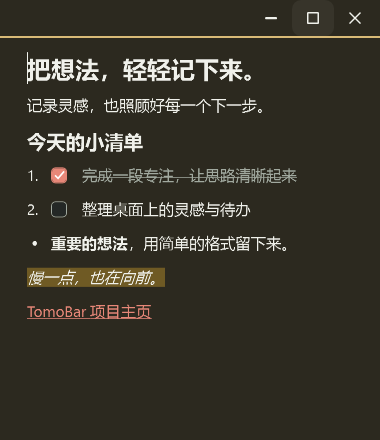
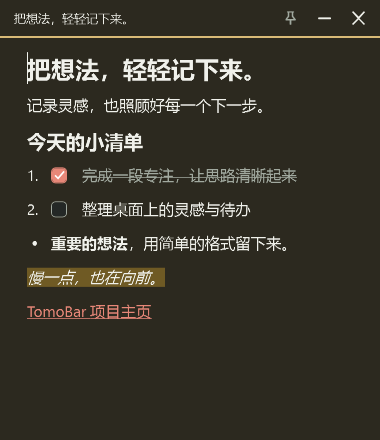
feat: editable note titles, pin controls, folding and edge snapping (v1.5.4)

diff --git a/src/TomoBar/Theme.xaml b/src/TomoBar/Theme.xaml
@@ -1,4 +1,5 @@
 <ResourceDictionary xmlns="http://schemas.microsoft.com/winfx/2006/xaml/presentation" xmlns:x="http://schemas.microsoft.com/winfx/2006/xaml">
+ <SolidColorBrush x:Key="TransparentNoteButton" Color="Transparent"/>
  <SolidColorBrush x:Key="Bg" Color="#F6F5F2"/>
  <SolidColorBrush x:Key="Card" Color="#FFFFFF"/>
  <SolidColorBrush x:Key="Ink" Color="#272B29"/>

diff --git a/src/TomoBar/NoteSmoke.cs b/src/TomoBar/NoteSmoke.cs
@@ -15,7 +15,7 @@ namespace LittleTomato {
  public static class NoteSmoke {
   static void Capture(FrameworkElement w,string path){w.UpdateLayout();var bmp=new RenderTargetBitmap((int)w.ActualWidth,(int)w.ActualHeight,96,96,PixelFormats.Pbgra32);bmp.Render(w);var encoder=new PngBitmapEncoder();encoder.Frames.Add(BitmapFrame.Create(bmp));using(var f=File.Create(path))encoder.Save(f);}
   static IEnumerable<DependencyObject> Children(DependencyObject root){for(int i=0;i<VisualTreeHelper.GetChildrenCount(root);i++){var c=VisualTreeHelper.GetChild(root,i);yield return c;foreach(var v in Children(c))yield return v;}}
-  static void Enter(NoteWindow w){w.Editor.RaiseEvent(new KeyEventArgs(Keyboard.PrimaryDevice,PresentationSource.FromVisual(w),0,Key.Enter){RoutedEvent=Keyboard.PreviewKeyDownEvent});}
+  static void Enter(NoteWindow w){w.UpdateLayout();w.Editor.RaiseEvent(new KeyEventArgs(Keyboard.PrimaryDevice,PresentationSource.FromVisual(w),0,Key.Enter){RoutedEvent=Keyboard.PreviewKeyDownEvent});}
   static MenuItem Item(ItemsControl menu,string name){foreach(var item in menu.Items.OfType<MenuItem>()){if(String.Equals(item.Header,name))return item;var nested=Item(item,name);if(nested!=null)return nested;}return null;}
   static void Click(NoteWindow w,string name){Item(w.EditMenu,name).RaiseEvent(new RoutedEventArgs(MenuItem.ClickEvent));}
   static List<Paragraph> Blocks(NoteWindow w){return w.Editor.Document.Blocks.SelectMany(b=>b is Paragraph?new[]{(Paragraph)b}:((System.Windows.Documents.List)b).ListItems.SelectMany(item=>item.Blocks.OfType<Paragraph>())).ToList();}
@@ -51,6 +51,33 @@ namespace LittleTomato {
    check(!w.EditMenu.Items.OfType<MenuItem>().Any(i=>String.Equals(i.Header,"移到回收站"))&&Item(w.EditMenu,"便签选项")!=null&&Item(w.EditMenu,"编辑历史")!=null,"root menu groups note management and edit history away from formatting");w.EditMenu.IsOpen=false;
    return w;
   }
+  [System.Runtime.InteropServices.DllImport("user32.dll")] static extern IntPtr SendMessage(IntPtr window,int message,IntPtr wp,IntPtr lp);
+  static Button NamedButton(DependencyObject root,string name){return Children(root).OfType<Button>().First(b=>System.Windows.Automation.AutomationProperties.GetName(b)==name);}
+  static TextBox EditTitle(Program app,Note note){NamedButton(app.Main,"编辑便签标题 "+note.Id).RaiseEvent(new RoutedEventArgs(Button.ClickEvent));return Children(app.Main).OfType<TextBox>().First(b=>System.Windows.Automation.AutomationProperties.GetName(b)=="便签标题 "+note.Id);}
+  static void TitleKey(NoteWindow w,TextBox editor,Key key){editor.RaiseEvent(new KeyEventArgs(Keyboard.PrimaryDevice,PresentationSource.FromVisual(w),0,key){RoutedEvent=Keyboard.PreviewKeyDownEvent});}
+  static NoteWindow CheckNoteWindow(Program app,NoteWindow w,Action<bool,string> check,string folder){
+   var note=w.Note;app.ShowMain();app.Main.ShowPage("notes");app.Main.UpdateLayout();var editor=EditTitle(app,note);editor.Text="读书与灵感";
+   check(editor.IsVisible&&w.IsVisible,"single click on list title opens inline editor without replacing note window");
+   w.Editor.AppendText("编辑期间的正文");w.Flush();check(Children(app.Main).Contains(editor)&&editor.Text=="读书与灵感","background note save does not discard in-progress title input");
+   TitleKey(w,editor,Key.Enter);check(note.Title=="读书与灵感"&&w.Title.Contains(note.Title)&&Children(w).OfType<TextBlock>().Any(t=>t.Text==note.Title)&&app.Store.Load().Notes.First(n=>n.Id==note.Id).Title==note.Title,"Enter saves title and synchronizes live note header");
+   editor=EditTitle(app,note);editor.Text="取消的标题";TitleKey(w,editor,Key.Escape);check(note.Title=="读书与灵感","Escape cancels title editing");
+   editor=EditTitle(app,note);editor.Text="点击别处保存";editor.RaiseEvent(new KeyboardFocusChangedEventArgs(Keyboard.PrimaryDevice,0,editor,w.Editor){RoutedEvent=Keyboard.LostKeyboardFocusEvent});check(note.Title=="点击别处保存","leaving title field commits input");
+   editor=EditTitle(app,note);editor.Text="";TitleKey(w,editor,Key.Enter);check(note.Title==""&&w.Title=="便签 · "+note.DisplayTitle,"blank custom title restores body-derived title in header");
+   app.Notes.Rename(note,"读书与灵感");check(!Children(w).OfType<Button>().Any(b=>System.Windows.Automation.AutomationProperties.GetName(b)=="最大化"),"note header has no maximize button");
+   NamedButton(w,"置顶便签").RaiseEvent(new RoutedEventArgs(Button.ClickEvent));check(note.Pinned&&w.Topmost,"header pin button enables always-on-top");Click(w,"置顶便签");check(!note.Pinned&&!w.Topmost&&NamedButton(w,"置顶便签")!=null,"context menu unpin synchronizes header button");
+   double height=w.ActualHeight,width=w.ActualWidth;string body=note.Body;var handle=new System.Windows.Interop.WindowInteropHelper(w).Handle;
+   SendMessage(handle,0xA3,new IntPtr(2),IntPtr.Zero);w.UpdateLayout();check(w.IsFolded&&w.ActualHeight<=40&&w.Editor.Visibility==Visibility.Collapsed&&Math.Abs(w.ActualWidth-width)<2,"native titlebar double-click folds to title-only strip without changing width");
+   Capture(w,Path.Combine(folder,"note-folded.png"));check(Math.Abs(note.Height-height)<2&&note.Body==body,"folding retains expanded dimensions and all note content");
+   NamedButton(w,"置顶便签").RaiseEvent(new RoutedEventArgs(Button.ClickEvent));check(w.Topmost&&note.Pinned,"pin button remains usable while folded");
+   SendMessage(handle,0xA3,new IntPtr(2),IntPtr.Zero);w.UpdateLayout();check(!w.IsFolded&&w.Editor.Visibility==Visibility.Visible&&Math.Abs(w.ActualHeight-height)<2&&note.Body==body,"second titlebar double-click restores original editor size and content");
+   SendMessage(handle,0x112,new IntPtr(0xF030),IntPtr.Zero);check(w.WindowState!=WindowState.Maximized,"system maximize command is suppressed for notes");
+   Native.RECT rect;Native.GetWindowRect(handle,out rect);var work=NoteDocking.WorkArea(rect);int rectWidth=rect.Width;rect.Left=work.Right-rectWidth-5;rect.Right=work.Right-5;rect.Top=work.Top+80;rect.Bottom=rect.Top+200;
+   var memory=System.Runtime.InteropServices.Marshal.AllocHGlobal(System.Runtime.InteropServices.Marshal.SizeOf(typeof(Native.RECT)));try{System.Runtime.InteropServices.Marshal.StructureToPtr(rect,memory,false);SendMessage(handle,0x216,IntPtr.Zero,memory);rect=(Native.RECT)System.Runtime.InteropServices.Marshal.PtrToStructure(memory,typeof(Native.RECT));check(rect.Right==work.Right&&rect.Width==rectWidth,"native moving message snaps to current monitor work-area edge without resizing");}finally{System.Runtime.InteropServices.Marshal.FreeHGlobal(memory);}
+   w.Editor.AppendText("关窗前的新内容");SendMessage(handle,0xA3,new IntPtr(2),IntPtr.Zero);NamedButton(w,"关闭便签").RaiseEvent(new RoutedEventArgs(Button.ClickEvent));check(!w.IsVisible&&app.Store.Load().Notes.First(n=>n.Id==note.Id).PlainText.Contains("关窗前的新内容")&&!note.Deleted,"close button on folded note saves content and keeps note in list");
+   w=app.Notes.Open(note);check(!w.IsFolded&&Math.Abs(w.Height-height)<2&&w.Topmost&&w.Title.Contains("读书与灵感"),"reopening closed note restores expanded size, saved title and pin state");
+   NamedButton(w,"最小化便签").RaiseEvent(new RoutedEventArgs(Button.ClickEvent));check(w.WindowState==WindowState.Minimized,"header minimize button minimizes note");app.Notes.Open(note);check(w.WindowState==WindowState.Normal&&w.IsVisible,"opening from list restores minimized note");
+   w.TogglePin();app.Notes.Rename(note,"");return w;
+  }
   public static void Start(Program app,string folder){
    var report=new List<string>();int stage=0;NoteWindow w=null;Note note=null;string saved=null;var timer=new DispatcherTimer{Interval=TimeSpan.FromMilliseconds(1100)};Action<bool,string> check=(ok,msg)=>{report.Add((ok?"PASS ":"FAIL ")+msg);if(!ok)Environment.ExitCode=1;};
    timer.Tick+=(s,e)=>{try{switch(stage++){
@@ -66,7 +93,7 @@ namespace LittleTomato {
      w.SetKind("number");w.Editor.AppendText("编号内容");w.Indent(1);check(w.Capture().Blocks.Last().Indent==1&&w.Capture().Blocks.Last().Kind=="number","numbered list supports indentation");
      Click(w,"大标题");check(w.Capture().Blocks.Last().Kind=="h1","context menu applies heading style");Click(w,"正文");check(w.Capture().Blocks.Last().Kind=="body","context menu returns heading to body text");
      check(!Children(w).OfType<ComboBox>().Any()&&!Children(w).OfType<Button>().Any(b=>System.Windows.Automation.AutomationProperties.GetName(b)=="加粗 · Ctrl+B"),"note surface has no formatting toolbar or settings controls");
-     w=CheckCombined(app,w,check,folder);
+     w=CheckCombined(app,w,check,folder);w=CheckNoteWindow(app,w,check,folder);
      var preview=new NoteDocument();preview.Blocks.Add(new NoteBlock{Kind="h1",Runs=new List<NoteRun>{new NoteRun{Text="把想法，轻轻记下来。"}}});preview.Blocks.Add(new NoteBlock{Runs=new List<NoteRun>{new NoteRun{Text="记录灵感，也照顾好每一个下一步。"}}});preview.Blocks.Add(new NoteBlock{Kind="h2",Runs=new List<NoteRun>{new NoteRun{Text="今天的小清单"}}});preview.Blocks.Add(new NoteBlock{Kind="number",Checklist=true,Done=true,Runs=new List<NoteRun>{new NoteRun{Text="完成一段专注，让思路清晰起来"}}});preview.Blocks.Add(new NoteBlock{Kind="number",Checklist=true,Runs=new List<NoteRun>{new NoteRun{Text="整理桌面上的灵感与待办"}}});preview.Blocks.Add(new NoteBlock{Kind="bullet",Runs=new List<NoteRun>{new NoteRun{Text="重要的想法",Bold=true},new NoteRun{Text="，用简单的格式留下来。"}}});preview.Blocks.Add(new NoteBlock{Runs=new List<NoteRun>{new NoteRun{Text="慢一点，也在向前。",Highlight=true,Italic=true}}});preview.Blocks.Add(new NoteBlock{Runs=new List<NoteRun>{new NoteRun{Text="TomoBar 项目主页",Link="https://github.com/Claradoll/TomoBar"}}});w.Render(preview);w.Record();break;
     case 1:
      check(app.Store.Load().Notes.First(n=>n.Id==note.Id).Body==note.Body,"debounced autosave stores document without manual save");check(app.Data.Active!=null&&app.Data.Active.Running,"editing notes does not pause focus timer");check(note.DisplayTitle=="把想法，轻轻记下来。","blank title uses first content line");Capture(w,Path.Combine(folder,"note-light.png"));app.Main.ShowPage("notes");Capture(app.Main,Path.Combine(folder,"notes-list.png"));

diff --git a/src/TomoBar/UI.cs b/src/TomoBar/UI.cs
@@ -21,7 +21,7 @@ namespace LittleTomato {
   public static Button Button(string text,Action action,bool primary) {var b=new Button {Content=text};if(primary){b.SetResourceReference(Control.BackgroundProperty,"Accent");b.SetResourceReference(Control.ForegroundProperty,"OnAccent");}b.Click+=(s,e)=>action();AutomationProperties.SetName(b,text);return b;}
   public static void IconLabel(Button button,string label,string icon) {
    string state=icon+label;if(String.Equals(button.Tag,state))return;button.Tag=state;
-   string stroke=icon=="notes"?"M3,2 L13,2 L13,11 L10,14 L3,14 Z M10,14 L10,11 L13,11 M5,5 L11,5 M5,8 L10,8":icon=="tasks"?"M2,4 L4,6 L7,2 M9,4 L15,4 M2,11 L4,13 L7,9 M9,11 L15,11":icon=="stats"?"M2,14 L2,9 M7,14 L7,5 M12,14 L12,2":icon=="settings"?"M2,4 L15,4 M2,12 L15,12 M6,2 L6,6 M11,10 L11,14":icon=="minimize"?"M3,8 L13,8":icon=="maximize"?"M3,3 L13,3 L13,13 L3,13 Z":icon=="restore"?"M5,3 L13,3 L13,11 M3,5 L11,5 L11,13 L3,13 Z":icon=="plus"?"M8,3 L8,13 M3,8 L13,8":icon=="more"?"M3,8 L3.1,8 M8,8 L8.1,8 M13,8 L13.1,8":icon=="undo"?"M6,3 L2,7 L6,11 M2,7 L10,7 Q14,7 14,12":null;
+   string stroke=icon=="pin"?"M5,2 L11,2 M6,2 L6,7 L3,10 L13,10 L10,7 L10,2 M8,10 L8,15":icon=="notes"?"M3,2 L13,2 L13,11 L10,14 L3,14 Z M10,14 L10,11 L13,11 M5,5 L11,5 M5,8 L10,8":icon=="tasks"?"M2,4 L4,6 L7,2 M9,4 L15,4 M2,11 L4,13 L7,9 M9,11 L15,11":icon=="stats"?"M2,14 L2,9 M7,14 L7,5 M12,14 L12,2":icon=="settings"?"M2,4 L15,4 M2,12 L15,12 M6,2 L6,6 M11,10 L11,14":icon=="minimize"?"M3,8 L13,8":icon=="maximize"?"M3,3 L13,3 L13,13 L3,13 Z":icon=="restore"?"M5,3 L13,3 L13,11 M3,5 L11,5 L11,13 L3,13 Z":icon=="plus"?"M8,3 L8,13 M3,8 L13,8":icon=="more"?"M3,8 L3.1,8 M8,8 L8.1,8 M13,8 L13.1,8":icon=="undo"?"M6,3 L2,7 L6,11 M2,7 L10,7 Q14,7 14,12":null;
    string data=stroke??(icon=="pause"?"M4,2 L7,2 L7,14 L4,14 Z M10,2 L13,2 L13,14 L10,14 Z":icon=="play"?"M4,2 L14,8 L4,14 Z":icon=="stop"?"M3,3 L13,3 L13,13 L3,13 Z":icon=="open"?"M5,2 L14,2 L14,11 L12,11 L12,5 L3,14 L2,13 L11,4 L5,4 Z":icon=="close"?"M3,2 L8,7 L13,2 L14,3 L9,8 L14,13 L13,14 L8,9 L3,14 L2,13 L7,8 L2,3 Z":"M3,5 L8,10 L13,5 L14,6 L8,12 L2,6 Z");
    var glyph=new System.Windows.Shapes.Path {Data=Geometry.Parse(data),Width=16,Height=16,Stretch=Stretch.Uniform,VerticalAlignment=VerticalAlignment.Center};if(stroke==null)glyph.SetBinding(Shape.FillProperty,new System.Windows.Data.Binding("Foreground"){Source=button});else {glyph.StrokeThickness=1.5;glyph.StrokeStartLineCap=PenLineCap.Round;glyph.StrokeEndLineCap=PenLineCap.Round;glyph.StrokeLineJoin=PenLineJoin.Round;glyph.SetBinding(Shape.StrokeProperty,new System.Windows.Data.Binding("Foreground"){Source=button});}
    var row=new StackPanel {Orientation=Orientation.Horizontal,HorizontalAlignment=button.HorizontalContentAlignment};row.Children.Add(glyph);if(label.Length>0)row.Children.Add(new TextBlock {Text=label,Margin=new Thickness(9,0,0,0),VerticalAlignment=VerticalAlignment.Center});button.Content=row;AutomationProperties.SetName(button,label.Length>0?label:"关闭面板");
@@ -66,7 +66,7 @@ namespace LittleTomato {
    content=new Grid {Margin=new Thickness(14,18,28,24)};UI.At(body,content,0,1);Content=root;
    Closing+=(s,e)=>{if(!app.Quitting){e.Cancel=true;Hide();app.ShowTrayHint();}};
    StateChanged+=(s,e)=>{if(WindowState==WindowState.Minimized)Hide();};
-   PreviewKeyDown+=(s,e)=>{if(e.Key==Key.N && Keyboard.Modifiers==ModifierKeys.Control){if(Page=="notes")app.Notes.New();else EditTask(null);e.Handled=true;}if(e.Key==Key.Escape){if(taskOverlay!=null)CloseEditor();else Hide();e.Handled=true;}};
+   PreviewKeyDown+=(s,e)=>{if(e.Key==Key.Escape&&Page=="notes"&&notesPage!=null&&notesPage.IsEditingTitle)return;if(e.Key==Key.N && Keyboard.Modifiers==ModifierKeys.Control){if(Page=="notes")app.Notes.New();else EditTask(null);e.Handled=true;}if(e.Key==Key.Escape){if(taskOverlay!=null)CloseEditor();else Hide();e.Handled=true;}};
    ShowPage("tasks");
   }
   void AddNav(StackPanel parent,string key,string text) {var b=UI.Button(text,()=>ShowPage(key),false);b.HorizontalContentAlignment=HorizontalAlignment.Left;b.Margin=new Thickness(0,0,0,8);b.Padding=new Thickness(13,13,8,13);UI.IconLabel(b,text,key);parent.Children.Add(b);nav[key]=b;}
@@ -159,7 +159,7 @@ namespace LittleTomato {
    var offset=UI.Input("计时条左侧距离",p.Offset.ToString());offset.Width=100;offset.HorizontalAlignment=HorizontalAlignment.Left;var position=UI.Row(UI.Text("距任务栏左侧",12,"Muted"),offset,UI.Text("  像素 · -1 为自动",11,"Muted"));foreach(FrameworkElement item in position.Children)item.VerticalAlignment=VerticalAlignment.Center;offset.Margin=new Thickness(16,0,0,0);position.Margin=new Thickness(0,12,0,8);visual.Children.Add(position);var mode=UI.Text("当前显示："+(app.Bar==null?"自动适配":app.Bar.Mode)+"  ·  全屏时自动隐藏",11,"Muted");mode.Margin=new Thickness(0,8,0,0);visual.Children.Add(mode);all.Children.Add(SettingsCard(visual));
    var status=UI.Text("",12,"Accent");status.TextWrapping=TextWrapping.Wrap;status.Margin=new Thickness(0,0,0,10);all.Children.Add(status);
    var save=UI.Button("保存设置",()=>{int f,s,l,r,o;if(!Int32.TryParse(focus.Text,out f)||f<1||f>180||!Int32.TryParse(shortB.Text,out s)||s<1||s>60||!Int32.TryParse(longB.Text,out l)||l<1||l>120||!Int32.TryParse(roundsBox.Text,out r)||r<1||r>12||!Int32.TryParse(offset.Text,out o)||o< -1||o>10000){status.Text="请输入有效数值：专注 1–180，短休息 1–60，长休息 1–120，间隔 1–12，位置 -1–10000。";return;}p.Focus=f;p.ShortBreak=s;p.LongBreak=l;p.Rounds=r;p.PauseOnLock=lockCheck.IsChecked==true;p.Sound=sound.IsChecked==true;p.Notifications=notification.IsChecked==true;p.ShowBar=show.IsChecked==true;p.Locked=locked.IsChecked==true;p.Offset=o;p.Theme=dark.IsChecked==true?"dark":light.IsChecked==true?"light":"system";app.ApplyTheme();if(!app.Save()){status.Text="设置尚未保存成功，请稍后重试。";return;}if(app.Bar!=null)app.Bar.RefreshPlacement();status.Text="设置已保存。新的默认时长用于新任务，当前计时不受影响。";},true);save.HorizontalAlignment=HorizontalAlignment.Left;save.Margin=new Thickness(0,0,0,24);all.Children.Add(save);
-   var data=new StackPanel();data.Children.Add(SectionTitle("数据与你"));var buttons=UI.Row(UI.Button("备份数据",()=>app.Backup(this),false),UI.Button("恢复备份",()=>app.Restore(this),false),UI.Button("打开数据目录",()=>System.Diagnostics.Process.Start(app.Store.DirectoryPath),false));foreach(FrameworkElement b in buttons.Children)b.Margin=new Thickness(0,0,10,0);data.Children.Add(buttons);var path=UI.Text(app.Store.DirectoryPath,11,"Muted");path.TextWrapping=TextWrapping.Wrap;path.Margin=new Thickness(0,14,0,0);data.Children.Add(path);var help=UI.Text("自动保存并保留上一份备份。关闭窗口后继续计时，右键计时条或托盘图标可退出。\n快捷键：Ctrl + Alt + P 暂停 / 继续，Ctrl + Alt + O 打开主界面。\n小番茄 1.5.3 · 本地运行，无账号、无联网服务。",11,"Muted");help.TextWrapping=TextWrapping.Wrap;help.LineHeight=22;help.Margin=new Thickness(0,12,0,0);data.Children.Add(help);all.Children.Add(SettingsCard(data));content.Children.Add(new ScrollViewer {Content=all,Padding=new Thickness(0,0,9,0)});
+   var data=new StackPanel();data.Children.Add(SectionTitle("数据与你"));var buttons=UI.Row(UI.Button("备份数据",()=>app.Backup(this),false),UI.Button("恢复备份",()=>app.Restore(this),false),UI.Button("打开数据目录",()=>System.Diagnostics.Process.Start(app.Store.DirectoryPath),false));foreach(FrameworkElement b in buttons.Children)b.Margin=new Thickness(0,0,10,0);data.Children.Add(buttons);var path=UI.Text(app.Store.DirectoryPath,11,"Muted");path.TextWrapping=TextWrapping.Wrap;path.Margin=new Thickness(0,14,0,0);data.Children.Add(path);var help=UI.Text("自动保存并保留上一份备份。关闭窗口后继续计时，右键计时条或托盘图标可退出。\n快捷键：Ctrl + Alt + P 暂停 / 继续，Ctrl + Alt + O 打开主界面。\n小番茄 1.5.4 · 本地运行，无账号、无联网服务。",11,"Muted");help.TextWrapping=TextWrapping.Wrap;help.LineHeight=22;help.Margin=new Thickness(0,12,0,0);data.Children.Add(help);all.Children.Add(SettingsCard(data));content.Children.Add(new ScrollViewer {Content=all,Padding=new Thickness(0,0,9,0)});
   }
   TextBlock SectionTitle(string text) {var t=UI.Text(text,16,"Ink");t.FontWeight=FontWeights.SemiBold;t.Margin=new Thickness(0,0,0,18);return t;}
   Border SettingsCard(UIElement child) {var c=UI.Card(child,new Thickness(22));c.Margin=new Thickness(0,0,0,16);return c;}

diff --git a/src/TomoBar/NotesPage.cs b/src/TomoBar/NotesPage.cs
@@ -11,17 +11,27 @@ namespace LittleTomato {
   public void RefreshNoteList(){if(Page=="notes"&&notesPage!=null)notesPage.Refresh();}
  }
  public class NotesPage : Grid {
-  readonly Program app;TextBox search;StackPanel list;bool trash;Button trashButton;TextBlock count;
+  public bool IsEditingTitle {get{return editingNote!=null;}}
+  readonly Program app;TextBox search;StackPanel list;bool trash;Button trashButton;TextBlock count;Note editingNote;TextBox titleEditor;bool committingTitle;
   public NotesPage(Program owner){
    app=owner;RowDefinitions.Add(new RowDefinition{Height=GridLength.Auto});RowDefinitions.Add(new RowDefinition{Height=GridLength.Auto});RowDefinitions.Add(new RowDefinition());
    var top=UI.Columns(-1,132);var heading=UI.Text("记下来，继续专注。",26,"Ink");heading.FontWeight=FontWeights.SemiBold;var sub=UI.Text("灵感、清单与下一步，都有地方安放。",12,"Muted");sub.Margin=new Thickness(0,9,0,0);top.Children.Add(UI.Stack(heading,sub));var add=UI.Button("新建便签",()=>app.Notes.New(),true);UI.IconLabel(add,"新建便签","plus");add.VerticalAlignment=VerticalAlignment.Center;UI.At(top,add,0,1);top.Margin=new Thickness(0,0,0,22);Children.Add(top);
    var filters=UI.Columns(-1,100);search=UI.Input("搜索便签","");search.ToolTip="搜索标题和正文";search.Height=42;search.TextChanged+=(s,e)=>Refresh();var searchHost=new Grid();searchHost.Children.Add(search);var hint=UI.Text("搜索标题或正文…",12,"Muted");hint.Margin=new Thickness(14,0,14,0);hint.VerticalAlignment=VerticalAlignment.Center;hint.IsHitTestVisible=false;searchHost.Children.Add(hint);search.TextChanged+=(s,e)=>hint.Visibility=search.Text.Length==0?Visibility.Visible:Visibility.Collapsed;filters.Children.Add(searchHost);trashButton=UI.Button("回收站",()=>{trash=!trash;trashButton.Content=trash?"全部便签":"回收站";Refresh();},false);trashButton.Margin=new Thickness(10,0,0,0);UI.At(filters,trashButton,0,1);filters.Margin=new Thickness(0,0,0,16);Grid.SetRow(filters,1);Children.Add(filters);
    list=new StackPanel();var scroll=new ScrollViewer{Content=list,Padding=new Thickness(0,0,8,0),VerticalScrollBarVisibility=ScrollBarVisibility.Auto};Grid.SetRow(scroll,2);Children.Add(scroll);Refresh();
   }
-  public void Refresh(){if(list==null)return;list.Children.Clear();string query=search.Text.Trim();var notes=app.Data.Notes.Where(n=>n.Deleted==trash&&(query.Length==0||(n.Title+"\n"+n.PlainText).IndexOf(query,StringComparison.CurrentCultureIgnoreCase)>=0)).OrderByDescending(n=>n.Pinned).ThenByDescending(n=>n.Updated).ToList();count=UI.Text((trash?"回收站 · ":"全部便签 · ")+notes.Count,11,"Muted");count.Margin=new Thickness(2,0,0,12);list.Children.Add(count);
+  void BeginTitleEdit(Note note,Grid host){
+   if(editingNote!=null)return;editingNote=note;titleEditor=UI.Input("便签标题 "+note.Id,note.Title);titleEditor.FontSize=17;titleEditor.FontWeight=FontWeights.SemiBold;titleEditor.Padding=new Thickness(4,2,4,2);titleEditor.Margin=new Thickness(-5,0,0,0);titleEditor.ToolTip="留空时使用正文第一行";host.Children.Clear();host.Children.Add(titleEditor);
+   var editor=titleEditor;editor.PreviewKeyDown+=(s,e)=>{if(!Object.ReferenceEquals(titleEditor,editor))return;if(e.Key==System.Windows.Input.Key.Enter){e.Handled=true;CommitTitle(false);}else if(e.Key==System.Windows.Input.Key.Escape){e.Handled=true;CommitTitle(true);}};
+   editor.LostKeyboardFocus+=(s,e)=>{if(Object.ReferenceEquals(titleEditor,editor))CommitTitle(false);};editor.Focus();editor.SelectAll();
+  }
+  void CommitTitle(bool cancel){
+   if(editingNote==null||committingTitle)return;committingTitle=true;var note=editingNote;var editor=titleEditor;
+   try{if(!cancel&&!app.Notes.Rename(note,editor.Text))return;editingNote=null;titleEditor=null;Refresh();}finally{committingTitle=false;}
+  }
+  public void Refresh(){if(list==null||editingNote!=null)return;list.Children.Clear();string query=search.Text.Trim();var notes=app.Data.Notes.Where(n=>n.Deleted==trash&&(query.Length==0||(n.Title+"\n"+n.PlainText).IndexOf(query,StringComparison.CurrentCultureIgnoreCase)>=0)).OrderByDescending(n=>n.Pinned).ThenByDescending(n=>n.Updated).ToList();count=UI.Text((trash?"回收站 · ":"全部便签 · ")+notes.Count,11,"Muted");count.Margin=new Thickness(2,0,0,12);list.Children.Add(count);
    if(notes.Count==0){var empty=UI.Stack(UI.Text(trash?"这里没有已删除的便签":query.Length>0?"没有找到相关便签":"给此刻的想法留个位置。",20,"Ink"),UI.Text(trash?"删除的便签可在这里恢复。":query.Length>0?"换个关键词试试。":"点击「新建便签」直接记录，输入会自动保存。",12,"Muted"));foreach(FrameworkElement item in empty.Children)item.Margin=new Thickness(0,10,0,6);list.Children.Add(UI.Card(empty,new Thickness(28)));return;}
    foreach(var item in notes){var note=item;var row=UI.Columns(-1,trash?86:148);var name=UI.Text(note.DisplayTitle,17,"Ink");name.FontWeight=FontWeights.SemiBold;name.TextTrimming=TextTrimming.CharacterEllipsis;var preview=UI.Text(String.IsNullOrWhiteSpace(note.PlainText)?"空白便签 · 点击开始记录":note.PlainText.Replace('\n',' '),12,"Muted");preview.TextTrimming=TextTrimming.CharacterEllipsis;preview.Margin=new Thickness(0,8,0,8);var task=app.Data.Tasks.FirstOrDefault(t=>t.Id==note.TaskId);var date=new DateTime(note.Updated,DateTimeKind.Utc).ToLocalTime().ToString("M月d日 HH:mm");var meta=UI.Text((note.Pinned?"置顶 · ":"")+date+(task==null?"":" · "+task.Title),10,"Muted");meta.TextTrimming=TextTrimming.CharacterEllipsis;
-    var open=UI.Button("",()=>app.Notes.Open(note),false);open.Content=UI.Stack(name,preview,meta);open.HorizontalContentAlignment=HorizontalAlignment.Stretch;open.Background=Brushes.Transparent;open.Padding=new Thickness(0);System.Windows.Automation.AutomationProperties.SetName(open,"打开便签 "+note.DisplayTitle);row.Children.Add(open);
+    var open=UI.Button("",()=>app.Notes.Open(note),false);open.Content=UI.Stack(preview,meta);open.HorizontalContentAlignment=HorizontalAlignment.Stretch;open.Background=Brushes.Transparent;open.Padding=new Thickness(0);System.Windows.Automation.AutomationProperties.SetName(open,"打开便签 "+note.DisplayTitle);var titleHost=new Grid{Height=32};var editTitle=UI.Button("",()=>BeginTitleEdit(note,titleHost),false);editTitle.Content=name;editTitle.Padding=new Thickness(0);editTitle.Background=Brushes.Transparent;editTitle.HorizontalContentAlignment=HorizontalAlignment.Stretch;editTitle.ToolTip="单击编辑标题 · Enter 保存，Esc 取消";System.Windows.Automation.AutomationProperties.SetName(editTitle,"编辑便签标题 "+note.Id);titleHost.Children.Add(editTitle);row.Children.Add(UI.Stack(titleHost,open));
     var actions=UI.Row();if(trash)actions.Children.Add(UI.Button("恢复",()=>app.Notes.Restore(note),false));else{actions.Children.Add(UI.Button("打开",()=>app.Notes.Open(note),false));actions.Children.Add(UI.Button("删除",()=>app.Notes.Delete(note),false));}foreach(FrameworkElement b in actions.Children)b.Margin=new Thickness(7,0,0,0);actions.VerticalAlignment=VerticalAlignment.Center;UI.At(row,actions,0,1);
     var card=UI.Card(row,new Thickness(20));card.BorderThickness=new Thickness(3,1,1,1);card.BorderBrush=new SolidColorBrush((Color)ColorConverter.ConvertFromString(note.Color=="sage"?"#98B29B":note.Color=="rose"?"#D4A1A3":"#D9BA77"));card.Margin=new Thickness(0,0,0,12);list.Children.Add(card);
    }

diff --git a/src/TomoBar/NoteEditor.cs b/src/TomoBar/NoteEditor.cs
@@ -11,7 +11,7 @@ using System.Windows.Threading;
 using System.Windows.Automation;
 
 namespace LittleTomato {
- public class NoteWindow : Window {
+ public partial class NoteWindow : Window {
   readonly Program app;public readonly Note Note;public readonly RichTextBox Editor;
   public ContextMenu EditMenu;Border tint;DispatcherTimer saveTimer;MenuItem pinItem,taskItems;
   bool loading,dirty;string lastBody;readonly Stack<EditState> undo=new Stack<EditState>(),redo=new Stack<EditState>();
@@ -20,7 +20,7 @@ namespace LittleTomato {
    app=owner;Note=note;Title="便签";Style=(Style)Application.Current.FindResource(typeof(Window));UI.Chrome(this);Icon=app.IconSource;
    Width=Math.Min(note.Width,SystemParameters.WorkArea.Width-24);Height=Math.Min(note.Height,SystemParameters.WorkArea.Height-24);MinWidth=280;MinHeight=240;WindowStartupLocation=WindowStartupLocation.CenterScreen;Topmost=note.Pinned;
    var root=new Grid();root.RowDefinitions.Add(new RowDefinition{Height=new GridLength(36)});root.RowDefinitions.Add(new RowDefinition{Height=new GridLength(2)});root.RowDefinitions.Add(new RowDefinition());
-   var chrome=UI.Titlebar(this,"",true);foreach(var b in chrome.Children.OfType<Button>()){if(AutomationProperties.GetName(b)=="最小化")b.ToolTip="最小化便签";if(AutomationProperties.GetName(b)=="收起窗口")b.ToolTip="关闭便签，自动保存内容";}chrome.Height=36;System.Windows.Shell.WindowChrome.GetWindowChrome(this).CaptionHeight=36;root.Children.Add(chrome);
+   root.Children.Add(BuildNoteHeader());
    tint=new Border{Height=2,VerticalAlignment=VerticalAlignment.Top};Grid.SetRow(tint,1);root.Children.Add(tint);
    Editor=new RichTextBox{BorderThickness=new Thickness(0),Padding=new Thickness(22,14,22,18),VerticalScrollBarVisibility=ScrollBarVisibility.Auto,AcceptsTab=false,IsDocumentEnabled=true,IsUndoEnabled=false,FontSize=15,Background=Brushes.Transparent};Editor.SetResourceReference(Control.ForegroundProperty,"Ink");Editor.SetResourceReference(RichTextBox.CaretBrushProperty,"Ink");AutomationProperties.SetName(Editor,"便签正文");Grid.SetRow(Editor,2);root.Children.Add(Editor);
    DataObject.AddPastingHandler(Editor,(s,e)=>{if(e.SourceDataObject.GetDataPresent(DataFormats.UnicodeText))e.FormatToApply=DataFormats.UnicodeText;else e.CancelCommand();});
@@ -31,7 +31,7 @@ namespace LittleTomato {
    Editor.PreviewTextInput+=(s,e)=>{if(e.Text==" "){var p=Editor.CaretPosition.Paragraph;if(p==null)return;string prefix=TextBefore(p,Editor.CaretPosition);string kind=prefix=="-"||prefix=="*"?"bullet":prefix=="1."?"number":prefix=="[]"||prefix=="[ ]"?"check":null;if(kind!=null&&Plain(p)==prefix){loading=true;new TextRange(AtCharacter(p,0),Editor.CaretPosition).Text="";loading=false;SetKind(kind);e.Handled=true;}else Dispatcher.BeginInvoke(new Action(AutoLink),DispatcherPriority.Background);}};
    Editor.PreviewMouseLeftButtonDown+=(s,e)=>{if(Keyboard.Modifiers!=ModifierKeys.Control)return;var pos=Editor.GetPositionFromPoint(e.GetPosition(Editor),true);var p=pos==null?null:pos.Paragraph;if(p==null)return;for(DependencyObject parent=pos.Parent;parent!=null;parent=LogicalTreeHelper.GetParent(parent)){var target=parent as Hyperlink;if(target!=null&&target.NavigateUri!=null){OpenLink(target.NavigateUri.AbsoluteUri);e.Handled=true;return;}}string text=Plain(p);int index=CharacterOffset(p,pos);foreach(Match match in Regex.Matches(text,@"https?://[^\s<>]+")){if(index>=match.Index&&index<=match.Index+match.Length){OpenLink(match.Value.TrimEnd('.',',','。','，',')','）'));e.Handled=true;break;}}};
    CommandBindings.Add(new CommandBinding(ApplicationCommands.Undo,(s,e)=>UndoEdit(),(s,e)=>{e.CanExecute=true;e.Handled=true;}));CommandBindings.Add(new CommandBinding(ApplicationCommands.Redo,(s,e)=>RedoEdit(),(s,e)=>{e.CanExecute=true;e.Handled=true;}));
-   Closing+=(s,e)=>{if(!Flush())e.Cancel=true;};Closed+=(s,e)=>saveTimer.Stop();Loaded+=(s,e)=>{Editor.Focus();};SizeChanged+=(s,e)=>{if(IsLoaded&&WindowState==WindowState.Normal){Note.Width=ActualWidth;Note.Height=ActualHeight;Schedule();}};
+   Closing+=(s,e)=>{if(!Flush())e.Cancel=true;};Closed+=(s,e)=>saveTimer.Stop();Loaded+=(s,e)=>{Editor.Focus();};SizeChanged+=(s,e)=>{if(IsLoaded&&!resizingFold&&!IsFolded&&WindowState==WindowState.Normal){Note.Width=ActualWidth;Note.Height=ActualHeight;Schedule();}};
   }
   static MenuItem Menu(ItemsControl owner,string text,Action action){var item=new MenuItem{Header=text,Style=(Style)Application.Current.FindResource("NoteMenuItem")};if(action!=null)item.Click+=(s,e)=>action();owner.Items.Add(item);return item;}
   static Separator MenuSeparator(){return new Separator{Style=(Style)Application.Current.FindResource("NoteMenuSeparator")};}
@@ -58,7 +58,7 @@ namespace LittleTomato {
    Menu(menu,"插入链接",InsertLink);menu.Items.Add(MenuSeparator());
    var history=Menu(menu,"编辑历史",null);var undoItem=Menu(history,"撤销",UndoEdit);undoItem.InputGestureText="Ctrl+Z";var redoItem=Menu(history,"重做",RedoEdit);redoItem.InputGestureText="Ctrl+Y";
    var options=Menu(menu,"便签选项",null);
-   pinItem=Menu(options,"置顶便签",()=>{Note.Pinned=!Note.Pinned;Topmost=Note.Pinned;pinItem.IsChecked=Note.Pinned;Schedule();});pinItem.IsCheckable=true;
+   pinItem=Menu(options,"置顶便签",TogglePin);pinItem.IsCheckable=true;
    var colors=Menu(options,"便签颜色",null);var colorItems=new Dictionary<string,MenuItem>();string[] colorKeys={"paper","sage","rose"},colorNames={"奶油纸","鼠尾草","浅玫瑰"};
    for(int i=0;i<colorKeys.Length;i++){string color=colorKeys[i];var item=Menu(colors,colorNames[i],()=>{Note.Color=color;ApplyColor();Schedule();});item.IsCheckable=true;colorItems[color]=item;}
    options.Items.Add(MenuSeparator());taskItems=Menu(options,"关联任务",null);
@@ -80,7 +80,7 @@ namespace LittleTomato {
    return menu;
   }
   void ApplyColor(){bool dark=app.Data.Settings.Theme=="dark"||app.Data.Settings.Theme=="system"&&!Native.AppsLight;string color=Note.Color=="sage"?(dark?"#242D26":"#F1F6EC"):Note.Color=="rose"?(dark?"#302527":"#FFF2EF"):(dark?"#2C291F":"#FFFAEA");Background=new SolidColorBrush((Color)ColorConverter.ConvertFromString(color));if(tint!=null)tint.Background=new SolidColorBrush((Color)ColorConverter.ConvertFromString(Note.Color=="sage"?"#98B29B":Note.Color=="rose"?"#D4A1A3":"#D9BA77"));}
-  void Schedule(){if(loading||saveTimer==null)return;dirty=true;Note.Updated=DateTime.UtcNow.Ticks;saveTimer.Stop();saveTimer.Start();}
+  void Schedule(){if(loading||saveTimer==null)return;dirty=true;Note.Updated=DateTime.UtcNow.Ticks;RefreshHeader();saveTimer.Stop();saveTimer.Start();}
   public bool Flush(){if(saveTimer!=null)saveTimer.Stop();if(!dirty)return true;if(!app.Save())return false;dirty=false;app.Notes.Changed();return true;}
   int Offset(){return Editor.Document.ContentStart.GetOffsetToPosition(Editor.CaretPosition);}
   public void Record(){if(loading)return;var doc=Capture();string body=Store.Encode(doc);if(body==lastBody)return;if(lastBody!=null){undo.Push(new EditState{Body=lastBody,Offset=Offset()});if(undo.Count>200){var keep=undo.Take(150).Reverse().ToArray();undo.Clear();foreach(var state in keep)undo.Push(state);}redo.Clear();}lastBody=body;Note.Body=body;Note.PlainText=doc.PlainText;Schedule();}

diff --git a/src/TomoBar/NoteChrome.cs b/src/TomoBar/NoteChrome.cs
@@ -1,0 +1,59 @@
+using System;
+using System.Runtime.InteropServices;
+using System.Windows;
+using System.Windows.Controls;
+using System.Windows.Media;
+using System.Windows.Interop;
+using System.Windows.Shell;
+using System.Windows.Automation;
+
+namespace LittleTomato {
+ public static class NoteDocking {
+  [StructLayout(LayoutKind.Sequential)] struct MonitorInfo {public int Size;public Native.RECT Monitor,Work;public uint Flags;}
+  [DllImport("user32.dll")] static extern IntPtr MonitorFromRect(ref Native.RECT rect,uint flags);
+  [DllImport("user32.dll")] static extern bool GetMonitorInfo(IntPtr monitor,ref MonitorInfo info);
+  public static Native.RECT WorkArea(Native.RECT rect){var info=new MonitorInfo{Size=Marshal.SizeOf(typeof(MonitorInfo))};return GetMonitorInfo(MonitorFromRect(ref rect,2),ref info)?info.Work:rect;}
+  public static Native.RECT Snap(Native.RECT rect,Native.RECT work,int distance){
+   int dx=0,dy=0;int left=work.Left-rect.Left,right=work.Right-rect.Right,top=work.Top-rect.Top,bottom=work.Bottom-rect.Bottom;
+   if(Math.Abs(left)<=distance||Math.Abs(right)<=distance)dx=Math.Abs(left)<=Math.Abs(right)?left:right;
+   if(Math.Abs(top)<=distance||Math.Abs(bottom)<=distance)dy=Math.Abs(top)<=Math.Abs(bottom)?top:bottom;
+   rect.Left+=dx;rect.Right+=dx;rect.Top+=dy;rect.Bottom+=dy;return rect;
+  }
+ }
+ public partial class NoteWindow {
+  TextBlock headerTitle;Button headerPin;bool resizingFold;double expandedHeight;
+  public bool IsFolded {get;private set;}
+  Grid BuildNoteHeader(){
+   var header=UI.Columns(-1,34,34,34);header.Height=36;header.Margin=new Thickness(14,0,4,0);
+   headerTitle=UI.Text(Note.DisplayTitle,12,"Ink");headerTitle.FontWeight=FontWeights.Medium;headerTitle.TextTrimming=TextTrimming.CharacterEllipsis;headerTitle.VerticalAlignment=VerticalAlignment.Center;headerTitle.Margin=new Thickness(0,0,8,0);header.Children.Add(headerTitle);
+   headerPin=UI.Button("",TogglePin,false);var min=UI.Button("",()=>WindowState=WindowState.Minimized,false);var close=UI.Button("",()=>Close(),false);
+   UI.IconLabel(headerPin,"","pin");UI.IconLabel(min,"","minimize");UI.IconLabel(close,"","close");
+   AutomationProperties.SetName(min,"最小化便签");AutomationProperties.SetName(close,"关闭便签");min.ToolTip="最小化便签";close.ToolTip="关闭便签，自动保存内容";
+   foreach(var button in new[]{headerPin,min,close}){button.Padding=new Thickness(0);button.Background=Brushes.Transparent;var icon=(FrameworkElement)((StackPanel)button.Content).Children[0];icon.Width=13;icon.Height=13;WindowChrome.SetIsHitTestVisibleInChrome(button,true);}
+   UI.At(header,headerPin,0,1);UI.At(header,min,0,2);UI.At(header,close,0,3);RefreshHeader();
+   WindowChrome.GetWindowChrome(this).CaptionHeight=36;
+   SourceInitialized+=(s,e)=>HwndSource.FromHwnd(new WindowInteropHelper(this).Handle).AddHook(NoteWindowMessage);
+   return header;
+  }
+  public void RefreshHeader(){
+   Title="便签 · "+Note.DisplayTitle;if(headerTitle!=null){headerTitle.Text=Note.DisplayTitle;headerTitle.ToolTip=Note.DisplayTitle;}
+   if(headerPin!=null){headerPin.SetResourceReference(Control.ForegroundProperty,Note.Pinned?"Accent":"Muted");headerPin.SetResourceReference(Control.BackgroundProperty,Note.Pinned?"Tint":"TransparentNoteButton");headerPin.ToolTip=Note.Pinned?"取消置顶":"置顶便签 · 始终在其他窗口上方";AutomationProperties.SetName(headerPin,Note.Pinned?"取消置顶便签":"置顶便签");}
+  }
+  public void TogglePin(){Note.Pinned=!Note.Pinned;Topmost=Note.Pinned;if(pinItem!=null)pinItem.IsChecked=Note.Pinned;RefreshHeader();Schedule();}
+  public void ToggleFold(){
+   if(WindowState==WindowState.Minimized)return;
+   resizingFold=true;
+   try{if(!IsFolded){expandedHeight=ActualHeight>38?ActualHeight:Note.Height;IsFolded=true;Editor.Visibility=Visibility.Collapsed;MinHeight=38;ResizeMode=ResizeMode.CanMinimize;Height=38;}else{IsFolded=false;ResizeMode=ResizeMode.CanResize;MinHeight=240;Height=Math.Max(240,expandedHeight);Editor.Visibility=Visibility.Visible;}}
+   finally{resizingFold=false;}
+   UpdateLayout();KeepOnScreen();
+  }
+  void KeepOnScreen(){var handle=new WindowInteropHelper(this).Handle;Native.RECT rect;if(handle==IntPtr.Zero||!Native.GetWindowRect(handle,out rect))return;var work=NoteDocking.WorkArea(rect);int x=Math.Max(work.Left,Math.Min(rect.Left,work.Right-rect.Width)),y=Math.Max(work.Top,Math.Min(rect.Top,work.Bottom-rect.Height));Native.SetWindowPos(handle,IntPtr.Zero,x,y,0,0,0x1|0x4|0x10);}
+  IntPtr NoteWindowMessage(IntPtr handle,int message,IntPtr wp,IntPtr lp,ref bool handled){
+   if(message==0xA3&&wp.ToInt32()==2){ToggleFold();handled=true;return IntPtr.Zero;}
+   // Avoid maximizing via the system menu or Windows titlebar gestures.
+   if(message==0x112&&(wp.ToInt64()&0xFFF0)==0xF030){handled=true;return IntPtr.Zero;}
+   if(message==0x216&&lp!=IntPtr.Zero){var rect=(Native.RECT)Marshal.PtrToStructure(lp,typeof(Native.RECT));rect=NoteDocking.Snap(rect,NoteDocking.WorkArea(rect),(int)Math.Round(12*Math.Max(1,Native.GetDpiForWindow(handle)/96.0)));Marshal.StructureToPtr(rect,lp,false);handled=true;return new IntPtr(1);}
+   return IntPtr.Zero;
+  }
+ }
+}

diff --git a/src/TomoBar/SelfTests.cs b/src/TomoBar/SelfTests.cs
@@ -17,6 +17,9 @@ namespace LittleTomato {
    Test("编号待办组合及完成状态无损序列化",()=>{var doc=new NoteDocument{Version=2};doc.Blocks.Add(new NoteBlock{Kind="number",Checklist=true,Done=true,Indent=2,Runs=new List<NoteRun>{new NoteRun{Text="组合待办",Bold=true}}});var copy=NoteCodec.Decode(Store.Encode(doc));Assert(copy.Version==2&&copy.Blocks[0].Kind=="number"&&copy.Blocks[0].Checklist&&copy.Blocks[0].Done&&copy.Blocks[0].Indent==2&&copy.Blocks[0].Runs[0].Bold,"combined structure round trip");});
    Test("便签旧版待办与编号格式继续兼容",()=>{string old="{\"Version\":1,\"Blocks\":[{\"Kind\":\"check\",\"Done\":true,\"Indent\":0,\"Runs\":[{\"Text\":\"旧待办\"}]},{\"Kind\":\"number\",\"Done\":false,\"Indent\":0,\"Runs\":[{\"Text\":\"旧编号\"}]}]}";var doc=NoteCodec.Decode(old);Assert(doc.Blocks[0].Kind=="check"&&doc.Blocks[0].Done&&doc.Blocks[1].Kind=="number"&&!doc.Blocks[1].Checklist,"legacy fields preserve meaning");});
    Test("未知便签版本拒绝编辑并保留原文",()=>{string body=Store.Encode(new NoteDocument{Version=99});bool rejected=false;try{NoteCodec.Decode(body);}catch(InvalidDataException){rejected=true;}var data=new AppData();data.Notes.Add(new Note{Body=body});Assert(rejected&&Store.Normalize(data).Notes[0].Body==body,"unsupported body is preserved");});
+   Test("便签吸附保持尺寸并贴合工作区四边",()=>{var work=new Native.RECT{Left=0,Top=0,Right=1920,Bottom=1040};var first=NoteDocking.Snap(new Native.RECT{Left=7,Top=9,Right=387,Bottom=449},work,12);Assert(first.Left==0&&first.Top==0&&first.Width==380&&first.Height==440,"top-left snap");var last=NoteDocking.Snap(new Native.RECT{Left=1533,Top=595,Right=1913,Bottom=1035},work,12);Assert(last.Right==1920&&last.Bottom==1040&&last.Width==380&&last.Height==440,"bottom-right work area snap");});
+   Test("便签远离边缘不吸附且可拖离边缘",()=>{var work=new Native.RECT{Left=0,Top=0,Right=1920,Bottom=1040};var rect=new Native.RECT{Left=40,Top=50,Right=420,Bottom=490};var result=NoteDocking.Snap(rect,work,12);Assert(result.Left==rect.Left&&result.Top==rect.Top,"free movement outside threshold");});
+   Test("便签吸附支持负坐标副屏与缩放阈值",()=>{var work=new Native.RECT{Left=-1920,Top=-200,Right=0,Bottom=840};var rect=new Native.RECT{Left=-1903,Top=-183,Right=-1523,Bottom=257};var normal=NoteDocking.Snap(rect,work,12);var scaled=NoteDocking.Snap(rect,work,18);Assert(normal.Left==-1903&&scaled.Left==-1920&&scaled.Top==-200&&scaled.Width==380,"negative screen coordinates and 150 percent threshold");});
    Test("便签链接仅允许网页地址",()=>{Assert(NoteCodec.SafeLink("https://example.com")&&!NoteCodec.SafeLink("file:///C:/test")&&!NoteCodec.SafeLink("javascript:alert(1)")&&!NoteCodec.SafeLink("cmd.exe"),"unsafe schemes blocked");});
    Test("便签回收站与标题规则保留在备份中",()=>{var data=new AppData();data.Notes.Add(new Note{PlainText="第一行\n第二行",Deleted=true,Pinned=true,Color="sage"});var copy=Store.Normalize(Store.Decode<AppData>(Store.Encode(data)));Assert(copy.Notes[0].Deleted&&copy.Notes[0].Pinned&&copy.Notes[0].DisplayTitle=="第一行","metadata and first-line title preserved");});
    Test("便签重复标识被拒绝而未知正文保留原文",()=>{var data=new AppData();data.Notes.Add(new Note{Id="same",Body="unreadable body"});data.Notes.Add(new Note{Id="same"});bool rejected=false;try{Store.Normalize(data);}catch(System.IO.InvalidDataException){rejected=true;}Assert(rejected,"duplicate rejected");data.Notes.RemoveAt(1);Assert(Store.Normalize(data).Notes[0].Body=="unreadable body","body never silently cleared");});

diff --git a/src/TomoBar/Notes.cs b/src/TomoBar/Notes.cs
@@ -57,6 +57,7 @@ namespace LittleTomato {
    try{var doc=NoteCodec.Decode(n.Body);window=new NoteWindow(app,n,doc);windows[n.Id]=window;window.Closed+=(s,e)=>{windows.Remove(n.Id);Changed();};window.Show();window.Activate();return window;}
    catch(Exception ex){UI.Notice(app.Main,"便签未能打开，原始内容未被覆盖。\n"+ex.Message);return null;}
   }
+  public bool Rename(Note note,string value){string previous=note.Title;long updated=note.Updated;note.Title=(value??"").Trim();note.Updated=DateTime.UtcNow.Ticks;if(!app.Save()){note.Title=previous;note.Updated=updated;return false;}NoteWindow window;if(windows.TryGetValue(note.Id,out window))window.RefreshHeader();Changed();return true;}
   public void RefreshTheme(){foreach(var w in windows.Values)w.RefreshTheme();}
   public void Changed(){if(app.Main!=null)app.Main.RefreshNoteList();}
   public bool Flush(){foreach(var w in windows.Values.ToArray())if(!w.Flush())return false;return true;}

diff --git a/src/TomoBar/Program.cs b/src/TomoBar/Program.cs
@@ -17,8 +17,8 @@ using Forms=System.Windows.Forms;
 [assembly:AssemblyTitle("小番茄")]
 [assembly:AssemblyDescription("轻量的 Windows 任务与番茄钟")]
 [assembly:AssemblyProduct("小番茄")]
-[assembly:AssemblyVersion("1.5.3.0")]
-[assembly:AssemblyFileVersion("1.5.3.0")]
+[assembly:AssemblyVersion("1.5.4.0")]
+[assembly:AssemblyFileVersion("1.5.4.0")]
 namespace LittleTomato {
  public static class Launcher { [STAThread] public static int Main(string[] args) {System.Globalization.CultureInfo.DefaultThreadCurrentCulture=System.Globalization.CultureInfo.GetCultureInfo("zh-CN");System.Globalization.CultureInfo.DefaultThreadCurrentUICulture=System.Globalization.CultureInfo.GetCultureInfo("zh-CN");return Program.Start(args);} }
  public class Program {

diff --git a/docs/VALIDATION.md b/docs/VALIDATION.md
@@ -1,27 +1,21 @@
-# v1.5.3 验证记录
+# v1.5.4 验证记录
 
 本地环境：Windows 11 x64，150% 显示缩放。2026-09-13。
 
-本轮 38 项核心回归测试、60 项便签专项检查通过，共 98 项。
+本轮 41 项核心测试、79 项便签专项检查通过，共 120 项。
 
-v1.5.2 额外运行番茄钟桌面回归时，当前前台全屏窗口触发计时条隐藏，屏幕命中、位置与可访问性描述检查未通过，后续检查未全部执行。诊断确认 Explorer 任务栏存在，但前台 Chrome_WidgetWin_1 窗口覆盖整个显示器。未改变用户全屏窗口或应用隐藏规则来强行通过测试。前一版的 70 项任务栏／任务预览检查保留为历史基线，不计入本轮通过数量。
+新增覆盖：主界面单击标题编辑、后台正文保存不丢失标题输入、Enter 保存并同步顶部标题、Esc 取消、失焦保存、留空回退正文标题；置顶按钮与右键同步；原生标题栏双击折叠和展开、保持宽度与展开高度、折叠时置顶和关闭、关闭前输入保存、重新打开恢复标题和置顶、最小化与恢复；系统最大化命令抑制；原生移动消息触发工作区边缘吸附。
 
-前一版覆盖：双击计时条打开主界面且不改变计时状态；左键关闭右键菜单且不触发延迟单击；应用失去激活时收起菜单；单击任务预览不改变当前计时、选中任务持久化字段和专注记录；显式开始时保存上一任务并切换；暂停与停止状态下预览／开始；便签移除工具栏、右键菜单与子菜单打开、格式保留选区、格式撤销。
+吸附几何检查涵盖四边、远离阈值、负坐标副屏与 150% 阈值。负坐标与不同缩放为合成矩形验证，未进行真实多显示器拖动或拓扑切换。
 
-便签覆盖：旧数据迁移、格式序列化、标题自动生成、链接协议限制、重复标识验证、自动保存与关窗保存、格式重开恢复、待办点击、完成样式与原格式分离、勾选撤销／重做、列表快捷输入与续行、编号缩进、标题样式切换、置顶、颜色选择、右键菜单打开、搜索、回收站恢复、转任务去重、备份还原和退出前最后输入。
+保留并通过原有便签富文本、组合编号待办、选区保留、列表续行、缩进、撤销／重做、自动保存、备份恢复、回收站与转任务检查。
 
-已检查便签浅色／深色、380×440 编辑窗口、280×240 小窗口、便签列表，以及主界面、设置、任务栏和小卡片。截图使用测试样例，不包含个人内容。为了避免两个计时条互相遮挡，番茄钟屏幕命中回归在旧版正常退出后执行。
-
-v1.5.2 新增覆盖：编号与勾选两种设置顺序、分别移除编号／勾选、分点与编号切换、多行选区保留、混合选区统一添加／移除、选区边界、已完成项回车生成未完成项、中间拆分保留文字样式、插入重编号、独立层级计数、空项退出、正文隔断后重新编号、组合格式撤销／重做与重开恢复、菜单同时显示列表与勾选状态、剪切复制启用状态、便签管理菜单归组，以及新旧数据结构兼容。
-
-已渲染检查带编号勾选的浅色／深色便签，以及右键主菜单、文字样式和列表子菜单。
-
-本轮为便签布局精简：已检查浅色／深色窗口不再显示标题输入区或保存状态，主界面便签列表仍显示标题，正文上移且底部不再预留状态行。已有自动保存、关窗保存、退出前输入保存与重开恢复检查全部通过。未改动任务栏逻辑，未重复任务栏屏幕检查。
+已渲染检查浅色／深色便签、新顶部按钮、38 像素折叠标题条、便签列表和紧凑窗口。截图为隔离测试样例，不包含个人内容。
 
 ## 范围
 
-测试在隔离数据目录中运行，操作真实 WPF 控件事件、编辑命令、Windows 鼠标与激活消息并等待消息循环；包含实际控件启用状态、渲染与 WindowFromPoint 检查。不是完整人工输入法或鼠标硬件测试。没有真实重启、锁屏、睡眠或多屏拓扑切换。
+桌面检查操作真实 WPF 控件事件、编辑命令和原生窗口消息，等待布局与消息循环；不是完整人工键鼠、中文输入法或多屏兼容性矩阵。保存失败时沿用提示与取消关窗行为。
 
-中文文本与备份格式已验证；复杂输入法组合、超长便签和外部软件富文本粘贴未做兼容性矩阵。粘贴有意采用纯文本，不导入任意 XAML、脚本或附件。便签正文由白名单结构化字段构造原生控件。
+本轮未重复任务栏屏幕检查。历史 v1.5.2 的额外任务栏回归受全屏前台窗口影响，未计入通过数。
 
-真实用户数据更新前备份，源码和安装包排除所有任务数据。GitHub Windows CI 执行核心回归与构建，桌面专项需在有 Explorer 的 Windows 会话中执行。
+真实用户数据升级前备份，公开源码和安装包排除任务与便签数据。GitHub Windows CI 执行核心回归与构建；便签桌面专项在本机隔离目录执行。

diff --git a/docs/USER_GUIDE.md b/docs/USER_GUIDE.md
@@ -1,4 +1,4 @@
-# 小番茄 1.5.3 使用说明
+# 小番茄 1.5.4 使用说明
 
 解压后双击 `小番茄.exe`。单文件下载则运行 `TomoBar.exe`。建议将程序放在固定文件夹。
 
@@ -26,9 +26,15 @@
 
 主界面进入「便签」，点击「新建便签」。任务栏计时条和托盘的右键菜单也可新建便签；默认快捷键为 Ctrl + Alt + N，在设置中可改为 Ctrl + Alt + M 或关闭。如果快捷键被占用，设置页会提示。
 
-便签窗口只显示正文，不显示标题输入框或保存提示。标题只在主界面便签列表显示：已有自定义标题继续保留，新便签自动使用正文第一行。便签独立于计时器，打开、编辑和关闭便签均不会暂停专注。窗口支持调整大小、拖动、最小化和置顶；右键「便签选项」中可选择奶油、鼠尾草和浅玫瑰纸色，也可设置置顶。
+在主界面「便签」列表单击标题即可输入。Enter 或点击别处保存，Esc 取消；标题留空时自动使用正文第一行。标题会同步显示在便签顶部，正文区域不放标题输入框或保存提示。便签独立于计时器，打开、编辑和关闭便签均不会暂停专注。窗口支持调整大小、拖动、最小化和置顶；右键「便签选项」中可选择奶油、鼠尾草和浅玫瑰纸色，也可设置置顶。
 
-便签表面保留正文与窗口按钮，输入会在后台自动保存。选中文字后右键，在「文字样式」中选择加粗、斜体、下划线、删除线或高亮；「段落样式」提供正文和大小标题，「列表与缩进」提供分点列表、编号列表及缩进。首层的「待办勾选」是独立开关，也可按 Ctrl+1。Ctrl+B / I / U 对应常用文字格式；Ctrl+Z 撤销，Ctrl+Y 重做。勾选完成后文字变淡并加删除线，留在原位；撤销也支持恢复勾选状态。
+便签顶部从左到右显示标题、置顶图钉、最小化与关闭按钮，不再提供最大化按钮。点击图钉使便签始终显示在其他普通窗口上方，再点取消；与右键菜单的「置顶便签」同步。
+
+双击顶部标题栏可折叠为只有标题的小条，再双击展开并恢复原有高度。折叠不会影响正文、完成状态或自动保存，折叠时仍可置顶、最小化和关闭。关闭按钮会保存并关闭当前便签窗口，便签仍保留在主界面；从列表重新打开时展开显示。
+
+拖动顶部标题栏，距离当前屏幕工作区边缘约 12 个逻辑像素时自动吸附，可向内拖动离开边缘。工作区排除任务栏；展开便签时会调整位置，避免内容落在屏幕外。
+
+输入会在后台自动保存。选中文字后右键，在「文字样式」中选择加粗、斜体、下划线、删除线或高亮；「段落样式」提供正文和大小标题，「列表与缩进」提供分点列表、编号列表及缩进。首层的「待办勾选」是独立开关，也可按 Ctrl+1。Ctrl+B / I / U 对应常用文字格式；Ctrl+Z 撤销，Ctrl+Y 重做。勾选完成后文字变淡并加删除线，留在原位；撤销也支持恢复勾选状态。
 
 编号和待办可组合：选中一行或多行，依次选择「列表与缩进 → 编号列表」与「待办勾选」，顺序不限，显示为 `1. ☐ 待办内容`。分点列表同样支持勾选框。
 

diff --git a/README.md b/README.md
@@ -8,7 +8,7 @@
 
 ## 开始使用
 
-下载 Release 中的 `TomoBar-1.5.3-win-x64.zip`，解压后运行 `小番茄.exe`。也可直接下载单文件 `TomoBar.exe`。无需安装、账号、联网或管理员权限。
+下载 Release 中的 `TomoBar-1.5.4-win-x64.zip`，解压后运行 `小番茄.exe`。也可直接下载单文件 `TomoBar.exe`。无需安装、账号、联网或管理员权限。
 
 点击「开始专注」即可开始；没有任务时自动创建「自由专注」。主界面会自动收起，计时条继续在任务栏显示。
 
@@ -37,9 +37,13 @@
 
 ## 便签
 
-在主界面「便签」页或任务栏右键菜单创建便签。直接输入正文，标题只在主界面便签列表显示；关闭窗口前会自动保存。便签采用整张纸色背景。右键菜单将文字样式、段落样式、列表与缩进分别归组；颜色、置顶与任务关联集中在「便签选项」。编号／分点列表可叠加「待办勾选」，也可用 Ctrl+1 切换勾选框。勾选后文字变淡并加删除线，Ctrl+Z 可以撤销。
+在主界面「便签」页或任务栏右键菜单创建便签。直接输入正文；在主界面单击便签标题即可编辑，Enter 或点击别处保存，Esc 取消。标题会同步显示在便签顶部。关闭窗口前会自动保存。便签采用整张纸色背景。右键菜单将文字样式、段落样式、列表与缩进分别归组；颜色、置顶与任务关联集中在「便签选项」。编号／分点列表可叠加「待办勾选」，也可用 Ctrl+1 切换勾选框。勾选后文字变淡并加删除线，Ctrl+Z 可以撤销。
 
 ![便签编辑器：编号与待办勾选组合](docs/images/note-light.png)
+
+顶部图钉切换置顶，双击顶部可折叠／展开。折叠时只显示标题栏，拖到屏幕工作区边缘会自动贴边。
+
+![折叠后的便签](docs/images/note-folded.png)
 
 ![便签右键菜单](docs/images/note-menu.png)
 
